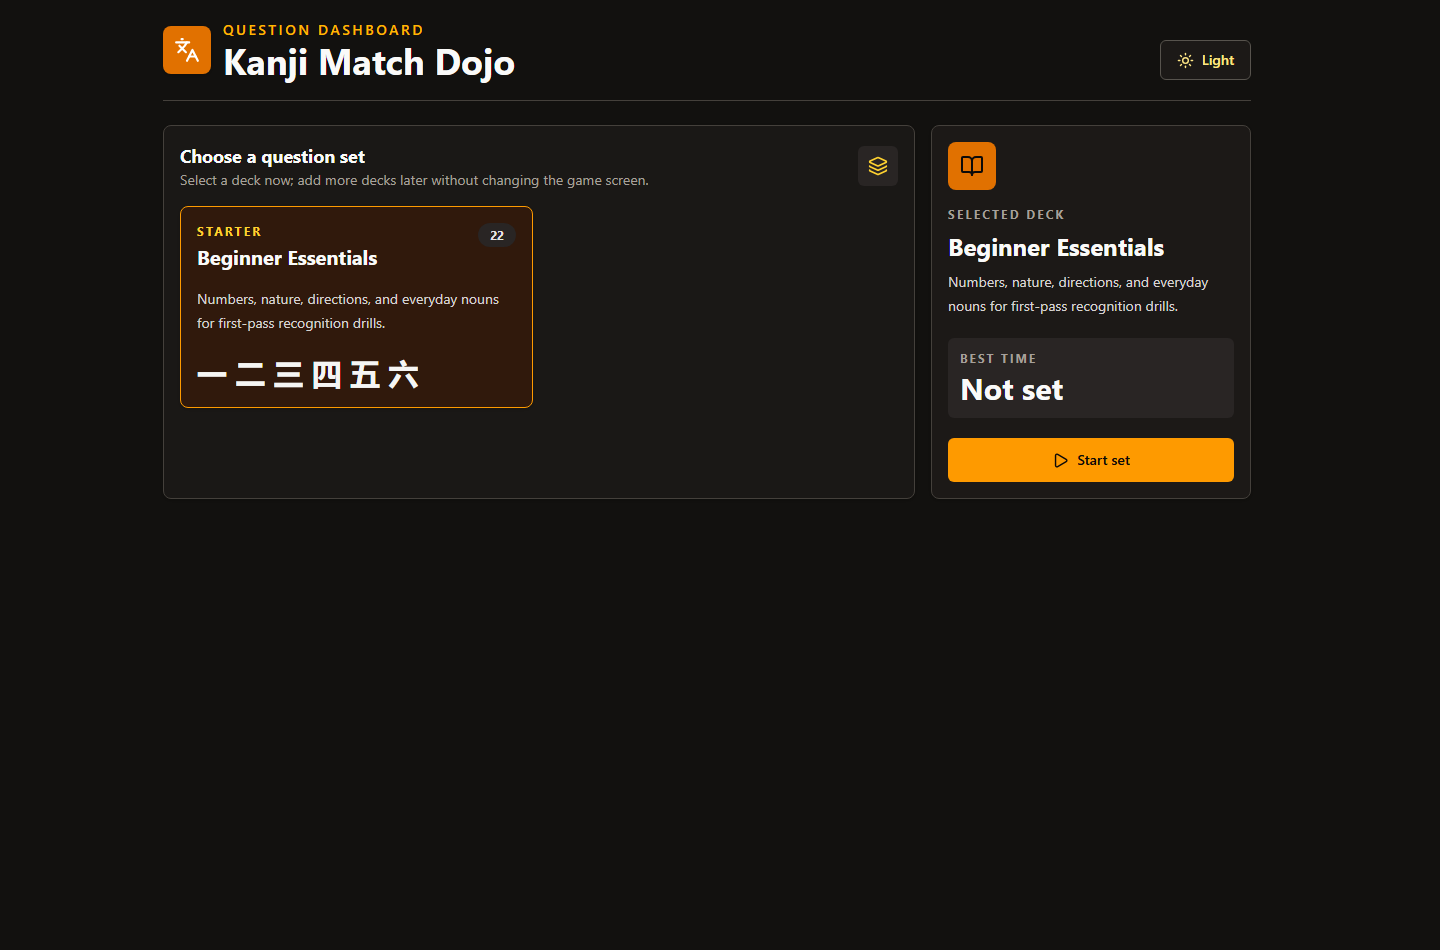
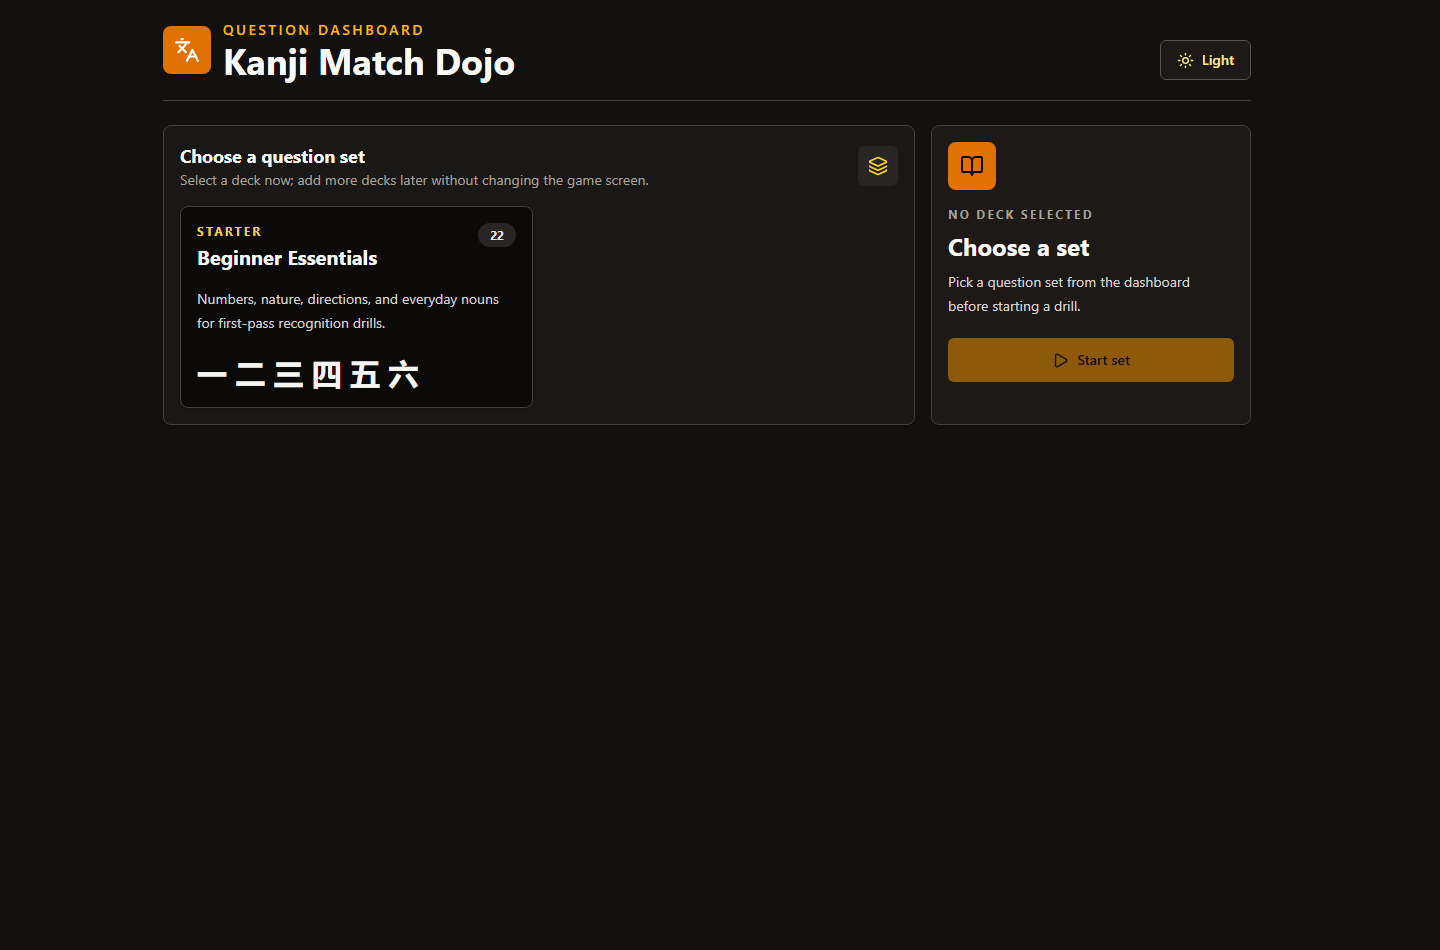
Fix dashboard empty selection state

Changed region(s): [[0.125, 0.2137, 0.375, 0.4579], [0.6562, 0.2137, 0.875, 0.4274], [0.6562, 0.4579, 0.875, 0.5189]]

diff --git a/src/App.tsx b/src/App.tsx
@@ -69,7 +69,6 @@ const QUESTION_SETS: QuestionSet[] = [
 ];
 
 const THEME_KEY = 'kanji-matcher-theme';
-const SELECTED_SET_KEY = 'kanji-matcher-selected-set';
 
 type AppView = 'dashboard' | 'game';
 type Theme = 'light' | 'dark';
@@ -98,19 +97,13 @@ function getInitialTheme(): Theme {
   return window.matchMedia('(prefers-color-scheme: dark)').matches ? 'dark' : 'light';
 }
 
-function getInitialSetId(): string {
-  const storedSetId = window.localStorage.getItem(SELECTED_SET_KEY);
-  const hasStoredSet = QUESTION_SETS.some((set) => set.id === storedSetId);
-  return hasStoredSet && storedSetId ? storedSetId : QUESTION_SETS[0].id;
-}
-
 function getBestTimeKey(setId: string): string {
   return `kanji-matcher-best-time:${setId}`;
 }
 
 export default function App() {
   const [appView, setAppView] = useState<AppView>('dashboard');
-  const [selectedSetId, setSelectedSetId] = useState(getInitialSetId);
+  const [selectedSetId, setSelectedSetId] = useState<string | null>(null);
   const [shuffledKanji, setShuffledKanji] = useState<KanjiData[]>([]);
   const [shuffledMeanings, setShuffledMeanings] = useState<KanjiData[]>([]);
   const [selectedKanjiId, setSelectedKanjiId] = useState<number | null>(null);
@@ -125,21 +118,22 @@ export default function App() {
 
   const isDark = theme === 'dark';
   const selectedSet = useMemo(
-    () => QUESTION_SETS.find((set) => set.id === selectedSetId) ?? QUESTION_SETS[0],
+    () => QUESTION_SETS.find((set) => set.id === selectedSetId),
     [selectedSetId],
   );
-  const totalQuestions = selectedSet.items.length;
+  const activeSet = selectedSet ?? QUESTION_SETS[0];
+  const totalQuestions = activeSet.items.length;
   const isComplete = matchedIds.size === totalQuestions;
   const attempts = matchedIds.size + mistakes;
   const accuracy = attempts === 0 ? 100 : Math.round((matchedIds.size / attempts) * 100);
   const remaining = totalQuestions - matchedIds.size;
 
   const selectedKanji = useMemo(
-    () => selectedSet.items.find((item) => item.id === selectedKanjiId),
-    [selectedKanjiId, selectedSet.items],
+    () => activeSet.items.find((item) => item.id === selectedKanjiId),
+    [activeSet.items, selectedKanjiId],
   );
 
-  const initGame = useCallback((questionSet: QuestionSet = selectedSet) => {
+  const initGame = useCallback((questionSet: QuestionSet = activeSet) => {
     setShuffledKanji(shuffle(questionSet.items));
     setShuffledMeanings(shuffle(questionSet.items));
     setSelectedKanjiId(null);
@@ -148,19 +142,15 @@ export default function App() {
     setIsError(false);
     setMistakes(0);
     setElapsedSeconds(0);
-  }, [selectedSet]);
+  }, [activeSet]);
 
   useEffect(() => {
-    initGame(selectedSet);
-  }, [initGame, selectedSet]);
+    initGame(activeSet);
+  }, [activeSet, initGame]);
 
   useEffect(() => {
     window.localStorage.setItem(THEME_KEY, theme);
   }, [theme]);
-
-  useEffect(() => {
-    window.localStorage.setItem(SELECTED_SET_KEY, selectedSetId);
-  }, [selectedSetId]);
 
   useEffect(() => {
     const splashTimer = window.setTimeout(() => {
@@ -171,6 +161,11 @@ export default function App() {
   }, []);
 
   useEffect(() => {
+    if (!selectedSet) {
+      setBestTime(null);
+      return;
+    }
+
     const storedBestTime = window.localStorage.getItem(getBestTimeKey(selectedSet.id));
     if (storedBestTime !== null) {
       const parsedBestTime = Number(storedBestTime);
@@ -179,7 +174,7 @@ export default function App() {
     }
 
     setBestTime(null);
-  }, [selectedSet.id]);
+  }, [selectedSet]);
 
   useEffect(() => {
     if (appView !== 'game' || isComplete) {
@@ -203,10 +198,10 @@ export default function App() {
         return previousBestTime;
       }
 
-      window.localStorage.setItem(getBestTimeKey(selectedSet.id), String(elapsedSeconds));
+      window.localStorage.setItem(getBestTimeKey(activeSet.id), String(elapsedSeconds));
       return elapsedSeconds;
     });
-  }, [appView, elapsedSeconds, isComplete, selectedSet.id]);
+  }, [activeSet.id, appView, elapsedSeconds, isComplete]);
 
   const finishAttempt = useCallback((kanjiId: number, meaningId: number) => {
     setSelectedKanjiId(kanjiId);
@@ -269,7 +264,7 @@ export default function App() {
     setAppView('dashboard');
   };
 
-  const handleStartSet = (setId = selectedSet.id) => {
+  const handleStartSet = (setId: string) => {
     const questionSet = QUESTION_SETS.find((set) => set.id === setId) ?? QUESTION_SETS[0];
     setSelectedSetId(questionSet.id);
     initGame(questionSet);
@@ -289,7 +284,7 @@ export default function App() {
           isDark={isDark}
           onBackToDashboard={() => setAppView('dashboard')}
           onToggleTheme={toggleTheme}
-          selectedSet={selectedSet}
+          selectedSet={activeSet}
           stats={{
             accuracy,
             elapsedSeconds,
@@ -306,7 +301,7 @@ export default function App() {
             onSelectSet={handleSelectSet}
             onStartSet={handleStartSet}
             questionSets={QUESTION_SETS}
-            selectedSetId={selectedSet.id}
+            selectedSetId={selectedSetId}
           />
         ) : (
           <GameBoard
@@ -319,12 +314,12 @@ export default function App() {
             mistakes={mistakes}
             onKanjiSelect={handleKanjiClick}
             onMeaningSelect={handleMeaningClick}
-            onReset={() => initGame(selectedSet)}
+            onReset={() => initGame(activeSet)}
             remaining={remaining}
             selectedKanji={selectedKanji}
             selectedKanjiId={selectedKanjiId}
             selectedMeaningId={selectedMeaningId}
-            selectedSet={selectedSet}
+            selectedSet={activeSet}
             shuffledKanji={shuffledKanji}
             shuffledMeanings={shuffledMeanings}
           />
@@ -417,11 +412,11 @@ interface DashboardProps {
   onSelectSet: (setId: string) => void;
   onStartSet: (setId: string) => void;
   questionSets: QuestionSet[];
-  selectedSetId: string;
+  selectedSetId: string | null;
 }
 
 function Dashboard({ bestTime, isDark, onSelectSet, onStartSet, questionSets, selectedSetId }: DashboardProps) {
-  const selectedSet = questionSets.find((set) => set.id === selectedSetId) ?? questionSets[0];
+  const selectedSet = questionSets.find((set) => set.id === selectedSetId);
 
   return (
     <section className="grid gap-4 lg:grid-cols-[minmax(0,1fr)_20rem]">
@@ -479,22 +474,35 @@ function Dashboard({ bestTime, isDark, onSelectSet, onStartSet, questionSets, se
         <div className={`mb-4 grid h-12 w-12 place-items-center rounded-lg ${isDark ? 'bg-amber-600 text-stone-950' : 'bg-red-700 text-white'}`}>
           <BookOpen size={24} />
         </div>
-        <p className={`text-xs font-bold uppercase tracking-[0.18em] ${isDark ? 'text-stone-400' : 'text-stone-500'}`}>Selected deck</p>
-        <h2 className={`mt-2 text-2xl font-bold ${isDark ? 'text-stone-50' : 'text-stone-950'}`}>{selectedSet.title}</h2>
-        <p className={`mt-2 text-sm leading-6 ${isDark ? 'text-stone-300' : 'text-stone-600'}`}>{selectedSet.description}</p>
-        <div className={`mt-5 rounded-md p-3 ${isDark ? 'bg-stone-800' : 'bg-stone-100'}`}>
-          <p className={`text-xs font-bold uppercase tracking-[0.16em] ${isDark ? 'text-stone-400' : 'text-stone-500'}`}>Best time</p>
-          <p className={`mt-1 text-3xl font-bold ${isDark ? 'text-stone-50' : 'text-stone-950'}`}>
-            {bestTime === null ? 'Not set' : formatTime(bestTime)}
-          </p>
-        </div>
+        <p className={`text-xs font-bold uppercase tracking-[0.18em] ${isDark ? 'text-stone-400' : 'text-stone-500'}`}>
+          {selectedSet ? 'Selected deck' : 'No deck selected'}
+        </p>
+        <h2 className={`mt-2 text-2xl font-bold ${isDark ? 'text-stone-50' : 'text-stone-950'}`}>
+          {selectedSet ? selectedSet.title : 'Choose a set'}
+        </h2>
+        <p className={`mt-2 text-sm leading-6 ${isDark ? 'text-stone-300' : 'text-stone-600'}`}>
+          {selectedSet ? selectedSet.description : 'Pick a question set from the dashboard before starting a drill.'}
+        </p>
+        {selectedSet && (
+          <div className={`mt-5 rounded-md p-3 ${isDark ? 'bg-stone-800' : 'bg-stone-100'}`}>
+            <p className={`text-xs font-bold uppercase tracking-[0.16em] ${isDark ? 'text-stone-400' : 'text-stone-500'}`}>Best time</p>
+            <p className={`mt-1 text-3xl font-bold ${isDark ? 'text-stone-50' : 'text-stone-950'}`}>
+              {bestTime === null ? 'Not set' : formatTime(bestTime)}
+            </p>
+          </div>
+        )}
         <button
-          className={`mt-5 inline-flex h-11 w-full items-center justify-center gap-2 rounded-md px-5 text-sm font-semibold transition focus:outline-none focus:ring-2 ${
+          className={`mt-5 inline-flex h-11 w-full items-center justify-center gap-2 rounded-md px-5 text-sm font-semibold transition focus:outline-none focus:ring-2 disabled:cursor-not-allowed disabled:opacity-50 ${
             isDark
               ? 'bg-amber-500 text-stone-950 hover:bg-amber-400 focus:ring-amber-400 focus:ring-offset-2 focus:ring-offset-stone-950'
               : 'bg-stone-950 text-white hover:bg-stone-800 focus:ring-red-700 focus:ring-offset-2'
           }`}
-          onClick={() => onStartSet(selectedSet.id)}
+          disabled={!selectedSet}
+          onClick={() => {
+            if (selectedSet) {
+              onStartSet(selectedSet.id);
+            }
+          }}
           type="button"
         >
           <Play size={17} />

diff --git a/UPDATES.md b/UPDATES.md
@@ -16,6 +16,8 @@ For project changes, use this workflow:
 - Renamed the app to Kanji Match Dojo and updated browser tab metadata.
 - Rebuilt the README for GitHub with a clean application screenshot.
 - Added the question set dashboard so the current 22-kanji set is selectable and future sets can be added cleanly.
+- Fixed dashboard deck selection so no deck is shown as selected until the user selects one.
+- Stored best times in browser `localStorage` by deck id, which persists on the same browser/device.
 - Added light and dark mode with matching splash screens on reload.
 - Fixed matched pairs so both the kanji and meaning disappear after a correct match.
 - Removed reading hints from the active pick and answer cards to keep the flow exam-like.

diff --git a/README.md b/README.md
@@ -56,6 +56,10 @@ npm run build
 
 The production build is written to `dist/`.
 
+## Progress Storage
+
+Best times are stored in the browser with `localStorage`, keyed by question-set id. That keeps each deck's best time available after reloads on the same browser and device. It is not a cloud account system, so best times do not sync across browsers or devices.
+
 ## Scripts
 
 | Command | Description |
